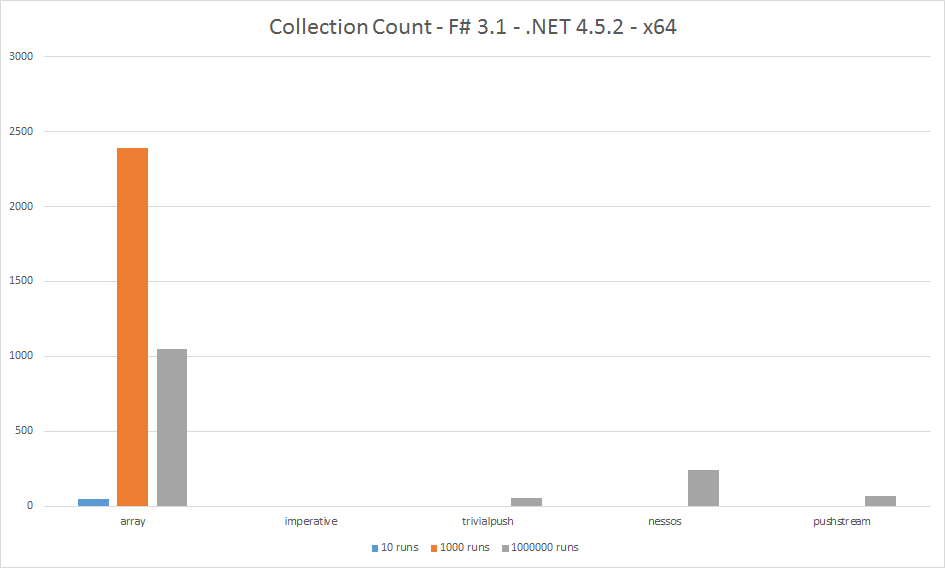
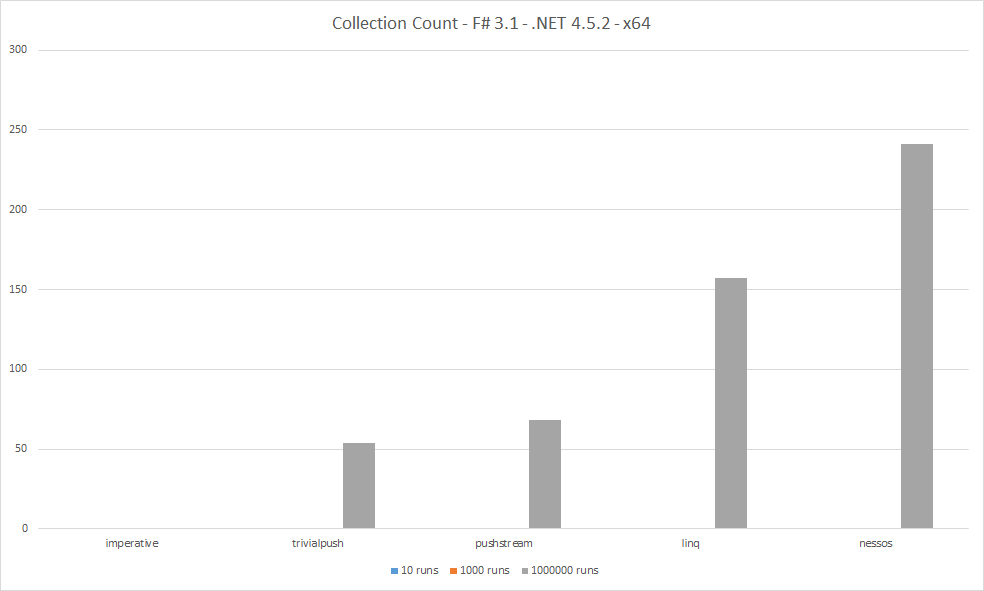
Updated README with new perf data

diff --git a/README.md b/README.md
@@ -50,11 +50,11 @@ benefits.
 
 Let's compare some data pipelines:
 
-  1. Array module
-  2. Imperative (not really a data pipeline but useful for sanity check)
-  3. TrivialPush (a reference push stream that can only support the most basic features of data pipelines)
+  1. Imperative (not really a data pipeline but useful for sanity check)
+  2. TrivialPush (a reference push stream that can only support the most basic features of data pipelines)
+  3. PushStream
   4. Nessos
-  5. PushStream
+  5. LINQ (Why not F# Seq? Because Seq overhead is significantly higher than LINQ although both are based around `IEnumerable<>`)
 
 We use a simple data pipe line to measure overhead:
 
@@ -94,8 +94,8 @@ GC overhead than `Nessos`.
 
 ## Conclusion
 
-`Nessos` is a great library but `PushStream` offers simplicity and lower overhead
-when you don't need all features of `Nessos`.
+`Nessos` is a great data pipeline library but `PushStream` offers simplicity and lower 
+overhead if you don't need all features of `Nessos`.
 
   [1]: img/perf_cpu.png
   [2]: img/perf_cc.png
